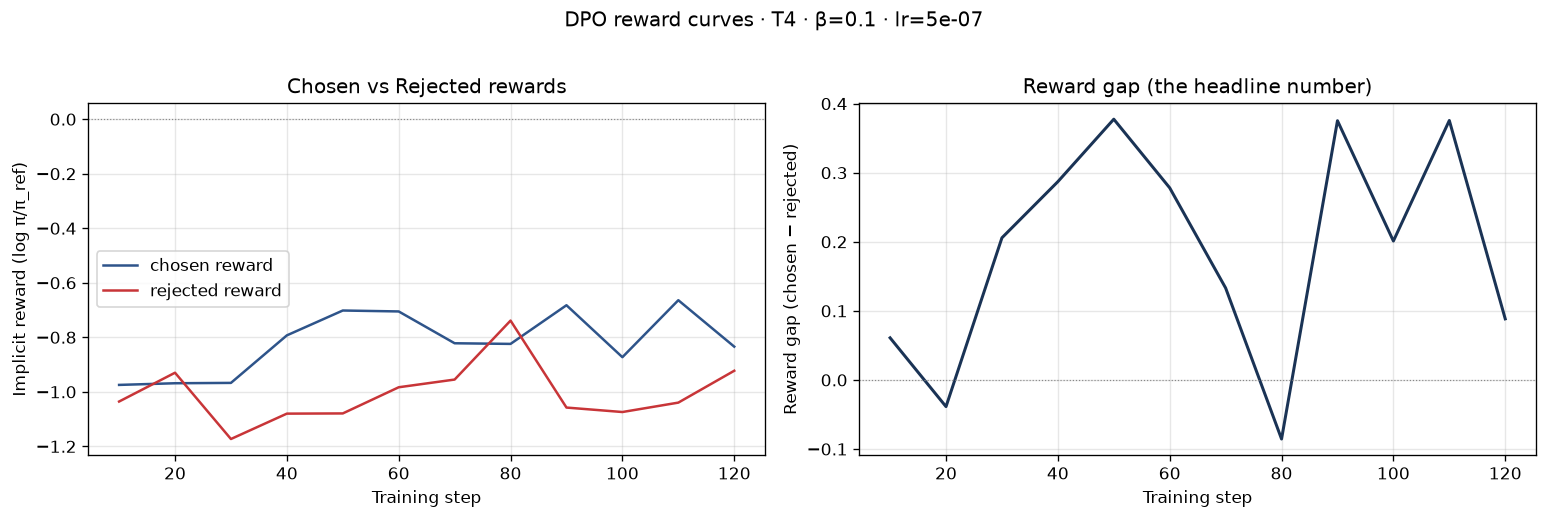
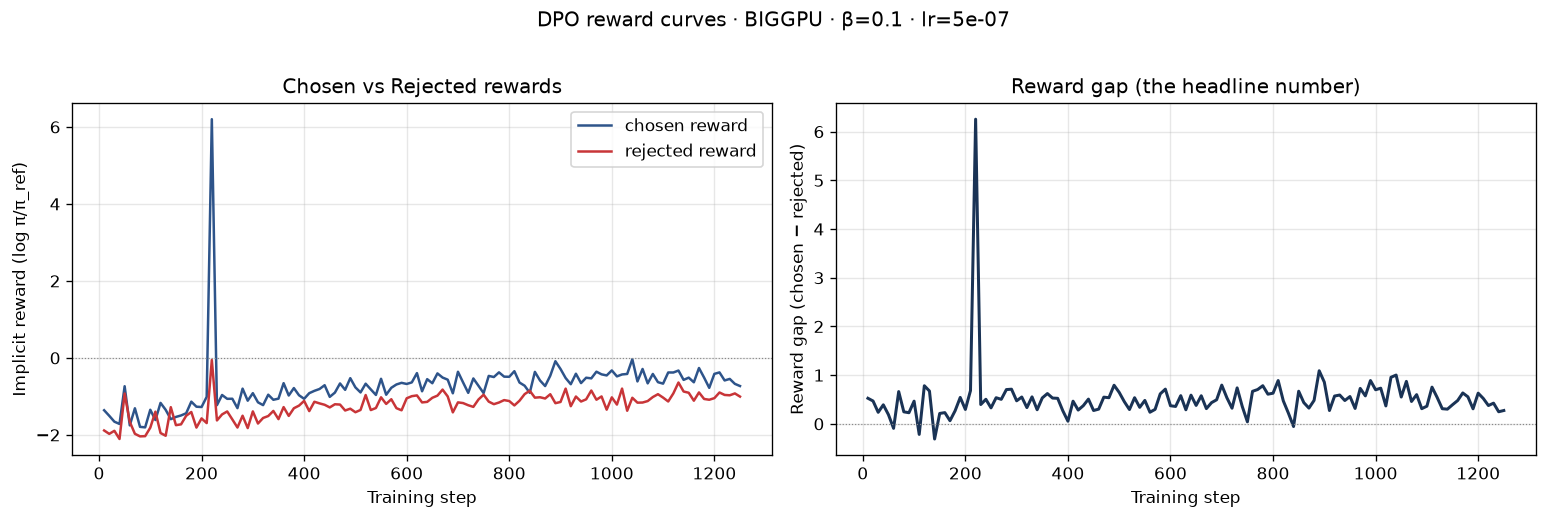
Refactor code structure for improved readability and maintainability

diff --git a/notebooks/04_compare_and_eval.py b/notebooks/04_compare_and_eval.py
@@ -37,6 +37,23 @@ DPO_PATH = REPO_ROOT / "adapters" / "dpo"
 EVAL_OUT = REPO_ROOT / "data" / "eval"
 EVAL_OUT.mkdir(parents=True, exist_ok=True)
 
+
+def load_env_file(path: Path):
+    """Small .env loader for notebooks; keeps API keys out of notebook output."""
+    if not path.exists():
+        return
+    for raw_line in path.read_text().splitlines():
+        line = raw_line.strip()
+        if not line or line.startswith("#") or "=" not in line:
+            continue
+        key, value = line.split("=", 1)
+        key = key.strip()
+        value = value.split("#", 1)[0].strip().strip('"').strip("'")
+        os.environ.setdefault(key, value)
+
+
+load_env_file(REPO_ROOT / ".env")
+
 assert SFT_PATH.exists() and DPO_PATH.exists(), "NB1 + NB3 must run first"
 
 EVAL_PROMPTS = [
@@ -69,6 +86,20 @@ from peft import PeftModel
 import gc
 
 
+def render_chat(tokenizer, messages, add_generation_prompt=False):
+    """Use tokenizer chat template when present; otherwise fall back to Qwen ChatML."""
+    if tokenizer.chat_template:
+        return tokenizer.apply_chat_template(
+            messages, tokenize=False, add_generation_prompt=add_generation_prompt
+        )
+    text = ""
+    for message in messages:
+        text += f"<|im_start|>{message['role']}\n{message['content']}<|im_end|>\n"
+    if add_generation_prompt:
+        text += "<|im_start|>assistant\n"
+    return text
+
+
 def generate_with_adapter(adapter_path: Path, prompts: list[dict], max_new_tokens: int = 256):
     """Load base + adapter, generate for all prompts, free memory, return outputs."""
     model, tokenizer = FastLanguageModel.from_pretrained(
@@ -86,9 +117,8 @@ def generate_with_adapter(adapter_path: Path, prompts: list[dict], max_new_token
     outputs = []
     for p in prompts:
         messages = [{"role": "user", "content": p["prompt"]}]
-        inputs = tokenizer.apply_chat_template(
-            messages, return_tensors="pt", add_generation_prompt=True
-        ).to("cuda")
+        prompt_text = render_chat(tokenizer, messages, add_generation_prompt=True)
+        inputs = tokenizer(prompt_text, return_tensors="pt").input_ids.to("cuda")
         with torch.no_grad():
             out = model.generate(
                 input_ids=inputs,

diff --git a/notebooks/05_merge_deploy_gguf.py b/notebooks/05_merge_deploy_gguf.py
@@ -68,10 +68,9 @@ model, tokenizer = FastLanguageModel.from_pretrained(
 if tokenizer.pad_token is None:
     tokenizer.pad_token = tokenizer.eos_token
 
-# Stack SFT-mini → DPO adapters
-SFT_PATH = REPO_ROOT / "adapters" / "sft-mini"
-model = PeftModel.from_pretrained(model, str(SFT_PATH))
-print(f"Loaded SFT-mini adapter from {SFT_PATH}")
+# NB3 saves the final policy adapter used by NB4 (SFT-initialized, then DPO-trained).
+model = PeftModel.from_pretrained(model, str(DPO_PATH))
+print(f"Loaded SFT+DPO adapter from {DPO_PATH}")
 
 # %% [markdown]
 # > **Note:** The DPO adapter trained in NB3 stacks on top of SFT. To get a fully
@@ -95,30 +94,12 @@ model.save_pretrained_merged(
 )
 print(f"Saved merged FP16 to {MERGED_PATH}")
 
-# Free GPU memory before GGUF conversion (which spawns a subprocess that needs RAM)
-import gc
-
-del model
-gc.collect()
-torch.cuda.empty_cache()
-
 # %% [markdown]
 # ## 3. Quantize to GGUF Q4_K_M
 #
 # Q4_K_M is the sweet spot: ~4× compression vs FP16, minimal quality loss.
 # Unsloth wraps llama.cpp's `quantize` binary — first run downloads + compiles
 # llama.cpp (~3 min) then quantizes (~30 s).
-
-# %%
-# Reload the merged model — Unsloth's GGUF saver expects a live model handle.
-from unsloth import FastLanguageModel as FLM
-
-model, tokenizer = FLM.from_pretrained(
-    model_name=str(MERGED_PATH),
-    max_seq_length=MAX_LEN,
-    dtype=None,
-    load_in_4bit=False,    # already merged; load full precision
-)
 
 # %%
 # Save GGUF in 1 quantization tier (Q4_K_M). Add more tiers below if you want the
@@ -148,6 +129,8 @@ for p in sorted(GGUF_DIR.iterdir()):
     if p.suffix == ".gguf":
         size_mb = p.stat().st_size / 1e6
         print(f"  {p.name:50s}  {size_mb:>8.1f} MB")
+
+import gc
 
 del model
 gc.collect()
